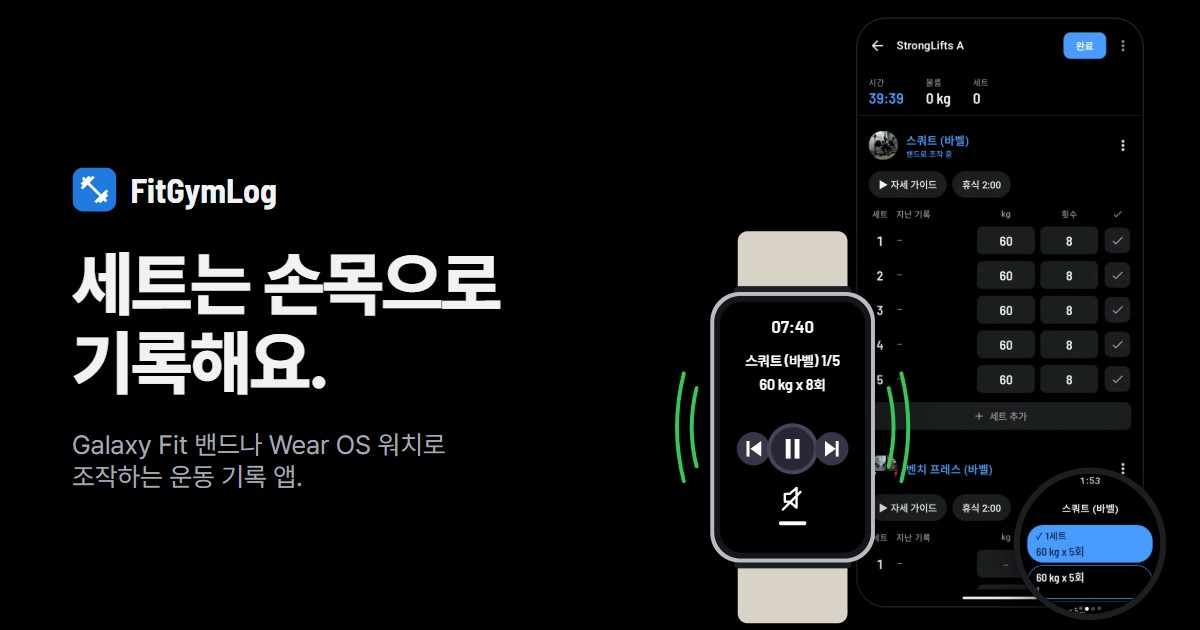
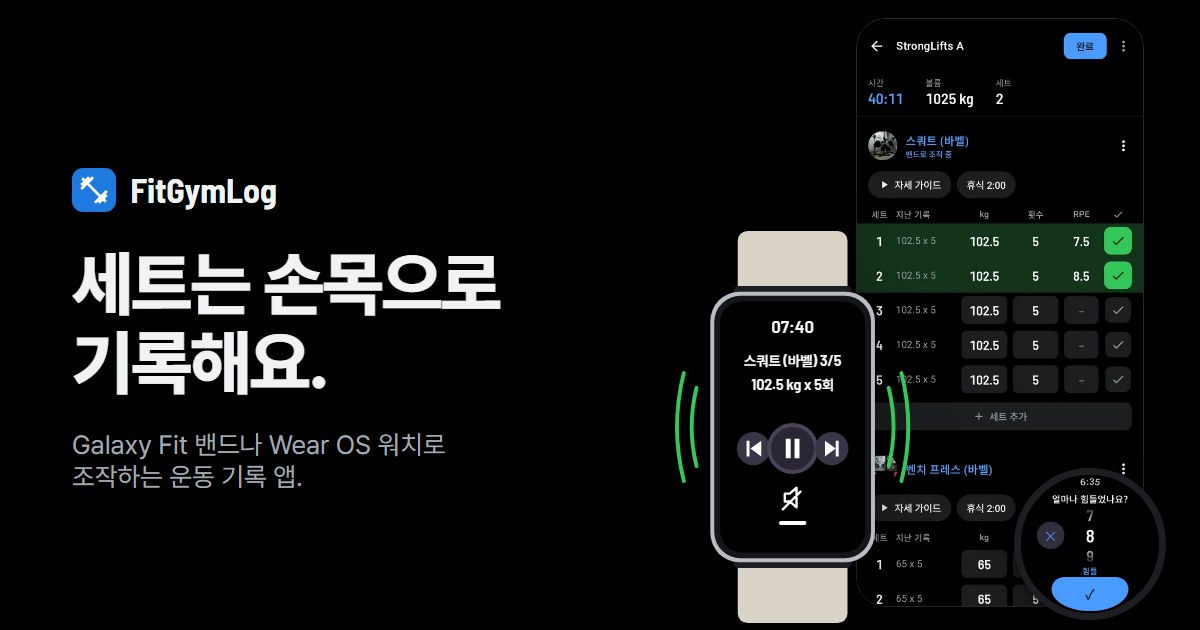
Show effort and RPE for 0.9.3: the hero and link preview get the RPE column and the watch's effort dial
- The hero's phone shows squat sets logged with RPE, and its watch asks how hard the workout was, on 8, Hard. The Galaxy Fit drawing shows the set that comes next.
- og-en.jpg and og-ko.jpg are rendered from the same layout as the hub's thumbnail, at 1200x630.
- The watch section adds the effort dial as a fourth shot, in a four-column row on wide screens.
- RPE is on by default now, so the Stats text says it can be turned off rather than on.

diff --git a/ko/index.html b/ko/index.html
@@ -52,7 +52,7 @@
           <p class="fine">MIT 라이선스의 무료 오픈소스예요. Android 13 이상에서 쓸 수 있고, Galaxy Fit3, Galaxy Z 폴드, Wear OS 에뮬레이터에서 테스트했어요. 지금은 Google Play 대신 APK로 설치해요.</p>
         </div>
         <div class="stack">
-          <div class="phone"><img src="../images/workout-ko.webp" width="540" height="1110" alt="진행 중인 운동: 스쿼트 60kg 8회 세트와 완료 체크 칸"></div>
+          <div class="phone"><img src="../images/workout-ko.webp" width="540" height="1110" alt="진행 중인 운동: 스쿼트 102.5 kg 5회 두 세트를 RPE 7.5와 8.5로 끝내고 세 세트 남음"></div>
           <svg class="fit3" viewBox="0 0 240 400" role="img" aria-label="Galaxy Fit3의 음악 조작 화면에 지금 세트가 보이는 그림">
             <defs><clipPath id="fit3-screen-ko"><rect x="54" y="70" width="132" height="260"/></clipPath></defs>
             <path class="wave" d="M22 160q-10 40 0 80"/><path class="wave far" d="M9 145q-14 55 0 110"/>
@@ -62,8 +62,8 @@
             <rect class="frame" x="36" y="62" width="168" height="276" rx="30"/><rect class="bezel" x="40" y="66" width="160" height="268" rx="27"/>
             <rect class="screen" x="46" y="72" width="148" height="256" rx="22"/>
             <text class="clock" x="120" y="104" text-anchor="middle">07:40</text>
-            <g clip-path="url(#fit3-screen-ko)"><text class="title" x="120" y="138" text-anchor="middle">스쿼트 (바벨) 1/5</text></g>
-            <text class="sub" x="120" y="162" text-anchor="middle">60 kg x 8회</text>
+            <g clip-path="url(#fit3-screen-ko)"><text class="title" x="120" y="138" text-anchor="middle">스쿼트 (바벨) 3/5</text></g>
+            <text class="sub" x="120" y="162" text-anchor="middle">102.5 kg x 5회</text>
             <circle class="btn" cx="80" cy="222" r="17"/><circle class="btn ring" cx="120" cy="222" r="24"/><circle class="btn" cx="160" cy="222" r="17"/>
             <path class="glyph" d="M73 214h3v16h-3zM88 214v16l-11-8z"/>
             <path class="glyph" d="M113 212h5v20h-5zM122 212h5v20h-5z"/>
@@ -71,7 +71,7 @@
             <path class="mute" d="M112 268h5l7-6v20l-7-6h-5zM128 266l-18 18"/>
             <rect class="handle" x="106" y="296" width="28" height="4" rx="2"/>
           </svg>
-          <div class="watch hero-watch"><img src="../images/watch-exercise-ko.png" width="454" height="454" alt="Wear OS 워치의 스쿼트 (바벨) 화면: 60 kg x 5회로 다음 세트를 기록하는 버튼"></div>
+          <div class="watch hero-watch"><img src="../images/watch-effort-ko.png" width="454" height="454" alt="운동이 얼마나 힘들었는지 묻는 Wear OS 워치: 다이얼이 8, 힘듦에 있고 저장 체크와 건너뛰기 X 버튼"></div>
         </div>
       </div>
     </section>
@@ -120,13 +120,15 @@
         <h2>Wear OS 워치: 손목 위의 앱</h2>
         <p class="lead">갤럭시 워치, 픽셀 워치 등 Wear OS 워치에서는 FitGymLog 워치 앱이 직접 돌아가서 밴드처럼 우회할 필요가 없어요.
           설정의 손목 기기에서 Wear OS 워치를 고르세요. 운동 기록은 계속 휴대폰에 있어서 워치 때문에 세트를 잃을 일이 없어요.</p>
-        <ul class="shots">
+        <ul class="shots four">
           <li><figure><div class="watch"><img src="../images/watch-exercise-ko.png" width="454" height="454" alt="워치의 스쿼트 (바벨) 화면: 60 kg x 5회로 1세트를 기록하는 버튼과 그 아래 세트 목록" loading="lazy"></div>
             <figcaption>운동마다 한 페이지. 한 번 누르면 계획대로 다음 세트를 기록해요.</figcaption></figure></li>
           <li><figure><div class="watch"><img src="../images/watch-dials-ko.png" width="454" height="454" alt="워치의 1세트 화면: 60 kg 다이얼과 5회 다이얼, 확인 버튼" loading="lazy"></div>
             <figcaption>세트를 누르면 다이얼이 나와요. 손가락이나 크라운으로 돌려 실제로 든 무게를 기록해요.</figcaption></figure></li>
           <li><figure><div class="watch"><img src="../images/watch-rest-ko.png" width="454" height="454" alt="워치의 휴식 화면: 링 안에 1:55 남음, 양옆에 -15와 +15 버튼, 다음 스쿼트 60 kg x 5회, 건너뛰기" loading="lazy"></div>
             <figcaption>휴식은 화면 전체에 15초 단위 조절과 다음 세트로 보여요. 뒤로 밀면 운동 화면이 나와요.</figcaption></figure></li>
+          <li><figure><div class="watch"><img src="../images/watch-effort-ko.png" width="454" height="454" alt="워치에서 운동을 끝낸 뒤: 얼마나 힘들었나요?, 8 힘듦에 놓인 다이얼, 건너뛰기 X와 저장 체크" loading="lazy"></div>
+            <figcaption>워치에서 운동을 끝내면 크라운으로 1부터 10까지 얼마나 힘들었는지 매겨요.</figcaption></figure></li>
         </ul>
         <p class="note">루틴 시작과 운동 끝내기도 워치에서 할 수 있고, 끝낸 뒤 크라운으로 강도를 평가해요. 워치 화면의 FitGymLog 아이콘을 누르면 어디서든 운동으로 돌아와요.
           휴식 끝 진동은 밴드와 같은 알림이에요.</p>
@@ -173,7 +175,7 @@
         <p class="lead">최근 12주의 운동 횟수, 시간, 볼륨을 주별로 보고, 체중은 하루하루 출렁임을 고른 추세로 봐요.
           한 주의 마지막 날 저녁에는 주간 체크인이 지난주와 비교해 한 주를 정리해 줘요.</p>
         <p class="lead">운동을 끝낼 때나 나중에 기록에서 얼마나 힘들었는지 1~10으로 평가하면, 통계의 훈련 부하 화면이 최근 7일의 강도 × 시간을
-          평소 한 주와 비교한 차트로 보여 주고, 높은지, 비슷한지, 낮은지 Apple 피트니스처럼 알려 줘요. 세트별로는 RPE를 켜면 돼요. 코치는 둘 다 참고해요.</p>
+          평소 한 주와 비교한 차트로 보여 주고, 높은지, 비슷한지, 낮은지 Apple 피트니스처럼 알려 줘요. 세트마다 몇 개 더 할 수 있었는지 적는 RPE 칸도 있고, 설정에서 끌 수 있어요. 코치는 둘 다 참고해요.</p>
         <ul class="shots">
           <li><figure><div class="phone"><img src="../images/stats-ko.webp" width="540" height="1110" alt="통계 탭: 최근 12주 주별 운동 횟수 막대그래프, 체중 추세 78.2kg와 최근 4주 동안 주당 -0.3kg, 매일 기록 위로 그린 추세선" loading="lazy"></div>
             <figcaption>주별 운동과 체중 추세를 봐요</figcaption></figure></li>

diff --git a/index.html b/index.html
@@ -51,7 +51,7 @@
           <p class="fine">Free and open source under the MIT License. Android 13 or newer, tested with a Galaxy Fit3, a Galaxy Z Fold and Wear OS on the emulator. Not on Google Play yet.</p>
         </div>
         <div class="stack">
-          <div class="phone"><img src="images/workout-en.webp" width="540" height="1110" alt="A workout in progress: squat sets of 60 kg for 8 reps with done boxes"></div>
+          <div class="phone"><img src="images/workout-en.webp" width="540" height="1110" alt="A workout in progress: two squat sets of 102.5 kg for 5 done at RPE 7.5 and 8.5, three more to go"></div>
           <svg class="fit3" viewBox="0 0 240 400" role="img" aria-label="Illustration of a Galaxy Fit3 showing the current set in its music controls">
             <defs><clipPath id="fit3-screen-en"><rect x="54" y="70" width="132" height="260"/></clipPath></defs>
             <path class="wave" d="M22 160q-10 40 0 80"/><path class="wave far" d="M9 145q-14 55 0 110"/>
@@ -61,8 +61,8 @@
             <rect class="frame" x="36" y="62" width="168" height="276" rx="30"/><rect class="bezel" x="40" y="66" width="160" height="268" rx="27"/>
             <rect class="screen" x="46" y="72" width="148" height="256" rx="22"/>
             <text class="clock" x="120" y="104" text-anchor="middle">07:40</text>
-            <g clip-path="url(#fit3-screen-en)"><text class="title" x="120" y="138" text-anchor="middle">Squat (Barbell) 1/5</text></g>
-            <text class="sub" x="120" y="162" text-anchor="middle">60 kg x 8</text>
+            <g clip-path="url(#fit3-screen-en)"><text class="title" x="120" y="138" text-anchor="middle">Squat (Barbell) 3/5</text></g>
+            <text class="sub" x="120" y="162" text-anchor="middle">102.5 kg x 5</text>
             <circle class="btn" cx="80" cy="222" r="17"/><circle class="btn ring" cx="120" cy="222" r="24"/><circle class="btn" cx="160" cy="222" r="17"/>
             <path class="glyph" d="M73 214h3v16h-3zM88 214v16l-11-8z"/>
             <path class="glyph" d="M113 212h5v20h-5zM122 212h5v20h-5z"/>
@@ -70,7 +70,7 @@
             <path class="mute" d="M112 268h5l7-6v20l-7-6h-5zM128 266l-18 18"/>
             <rect class="handle" x="106" y="296" width="28" height="4" rx="2"/>
           </svg>
-          <div class="watch hero-watch"><img src="images/watch-exercise-en.png" width="454" height="454" alt="A Wear OS watch showing Squat (Barbell) with a button to log set 2 at 60 kg for 5 reps"></div>
+          <div class="watch hero-watch"><img src="images/watch-effort-en.png" width="454" height="454" alt="A Wear OS watch asking how hard the workout was, its dial on 8, Hard, with a check to save and a cross to skip"></div>
         </div>
       </div>
     </section>
@@ -121,13 +121,15 @@
         <p class="lead">A Galaxy Watch, Pixel Watch or any other Wear OS watch runs FitGymLog's own watch app, so it needs none of
           the band's tricks. In Settings, On your wrist, choose Wear OS watch.
           The phone still keeps the workout, so the watch can't lose a set.</p>
-        <ul class="shots">
+        <ul class="shots four">
           <li><figure><div class="watch"><img src="images/watch-exercise-en.png" width="454" height="454" alt="Squat (Barbell) on the watch: a button to log set 2 at 60 kg for 5 reps, the sets listed below it" loading="lazy"></div>
             <figcaption>A page for each exercise. One tap logs the next set as planned.</figcaption></figure></li>
           <li><figure><div class="watch"><img src="images/watch-dials-en.png" width="454" height="454" alt="Set 1 on the watch: a dial at 60 kg and a dial at 5 reps, with a check button" loading="lazy"></div>
             <figcaption>Tap a set for dials, turned by touch or the crown, to log what you actually lifted.</figcaption></figure></li>
           <li><figure><div class="watch"><img src="images/watch-rest-en.png" width="454" height="454" alt="Rest on the watch: 1:56 left inside a ring, minus 15 and plus 15 buttons either side, next squat 60 kg for 5 reps, and Skip" loading="lazy"></div>
             <figcaption>Rest fills the face, with 15-second steps and the next set. Swipe back to see the workout.</figcaption></figure></li>
+          <li><figure><div class="watch"><img src="images/watch-effort-en.png" width="454" height="454" alt="After finishing on the watch: How hard was it?, a dial on 8 marked Hard, a cross to skip and a check to save" loading="lazy"></div>
+            <figcaption>Finish on the watch and rate how hard it was, 1 to 10, on the crown.</figcaption></figure></li>
         </ul>
         <p class="note">Start a routine and finish the workout from the watch too, then rate how hard it was on the crown. A FitGymLog icon on the watch face takes you back
           to the workout from anywhere. The rest buzz is the same notification the band gets.</p>
@@ -176,7 +178,7 @@
           On the last evening of each week, a check-in sums up the week against the one before.</p>
         <p class="lead">Rate how hard each workout felt, 1 to 10, when you finish it or later in History, and Stats shows your
           training load: a chart of how hard times how long over the last 7 days against your usual week, and whether you are above,
-          about or below it, as Apple Fitness does. For single sets, turn on RPE. The coach sees both.</p>
+          about or below it, as Apple Fitness does. Each set also has an RPE column for how many reps you had left, which you can turn off in Settings. The coach sees both.</p>
         <ul class="shots">
           <li><figure><div class="phone"><img src="images/stats-en.webp" width="540" height="1110" alt="The Stats tab: workouts in each of the last 12 weeks as bars, then a weight trend of 78.2 kg, down 0.3 kg a week over the last 4 weeks, drawn over the daily readings" loading="lazy"></div>
             <figcaption>Each week, and your weight trend</figcaption></figure></li>

diff --git a/assets/style.css b/assets/style.css
@@ -190,6 +190,7 @@ section.soft { background: var(--bg-soft); }
 .shots { list-style: none; margin: 8px 0 0; padding: 0; display: grid; grid-template-columns: repeat(3, minmax(0, 1fr)); gap: 32px; }
 @media (min-width: 861px) {
   .shots.two { grid-template-columns: repeat(2, minmax(0, 280px)); justify-content: center; gap: 64px; }
+  .shots.four { grid-template-columns: repeat(4, minmax(0, 1fr)); gap: 24px; }
 }
 .shots figure { margin: 0; }
 .shots .phone { width: min(280px, 100%); }
